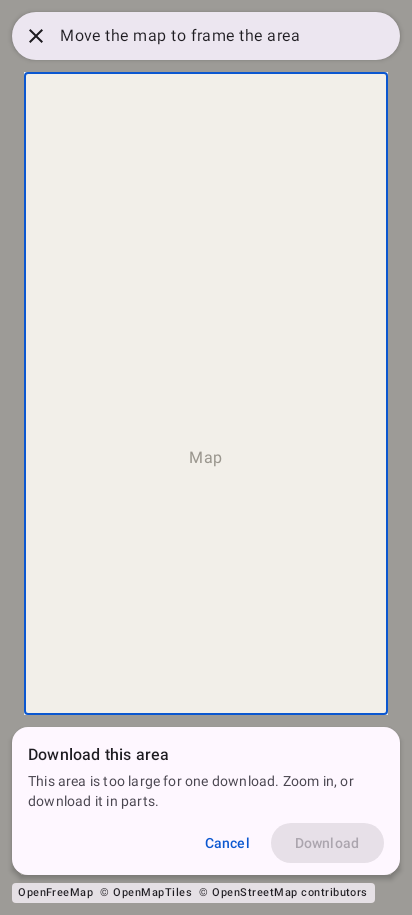
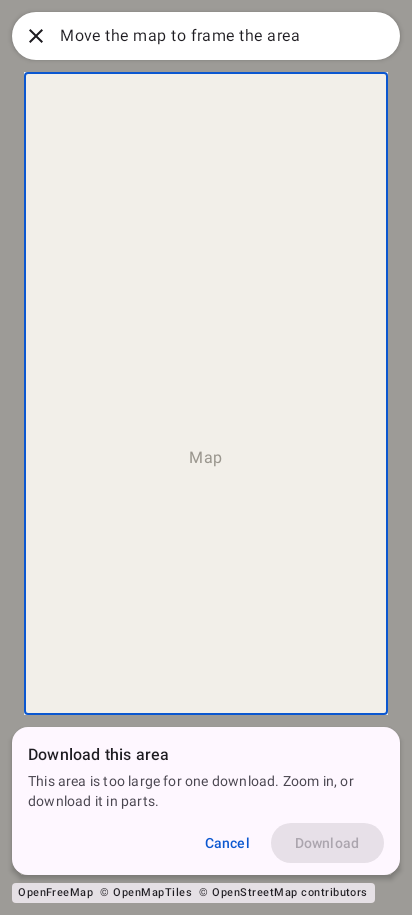
fix(offline): the area picker's bar and card have the map controls' look and edge
The bar takes the search bar's place, so it takes its container (white in
light, was surfaceContainerHigh) and, with the card, the dark edge: on
VersaTiles Colorful Dark the bar was 1.04:1. The contrast test walks only
past each container's fill, so a light fill no longer passes for an edge.

Changed region(s): [[0.0291, 0.0, 0.9903, 0.0918]]

diff --git a/androidApp/src/test/kotlin/to/pubky/maps/android/MapSurfacesContrastTest.kt b/androidApp/src/test/kotlin/to/pubky/maps/android/MapSurfacesContrastTest.kt
@@ -31,6 +31,7 @@ import org.robolectric.annotation.GraphicsMode
 import to.pubky.maps.config.ServerDefaults
 import to.pubky.maps.links.GeoPoint
 import to.pubky.maps.links.LinkProvider
+import to.pubky.maps.map.AreaPickerUi
 import to.pubky.maps.map.MapScreen
 import to.pubky.maps.map.MapSearch
 import to.pubky.maps.place.PlaceCard
@@ -42,12 +43,13 @@ import to.pubky.maps.status.ServicePart
 import to.pubky.maps.ui.PubkyMapsTheme
 
 /**
- * In dark mode every control, notice and card over the map has an edge that stands out from the land
- * of each default dark style: a shadow does not show on a dark map, and those lands range from nearly
- * black to dark grey, so the edge must carry the boundary. From a point in each container's padding,
- * where no icon or text is, the pixels are read outward across its edge, and the most distinct one must
- * reach 1.5:1 against the land (the near-black container of the search bar and buttons gave 1.01:1 on
- * OpenFreeMap Dark, M3's High tone 1.04:1 on VersaTiles Colorful Dark). Runs once per default dark style.
+ * In dark mode every control, notice and card over the map, and the area picker's bar and card, has
+ * an edge that stands out from the land of each default dark style: a shadow does not show on a dark
+ * map, and those lands range from nearly black to dark grey, so the edge must carry the boundary. From
+ * a point in each container's padding, where no icon or text is, the pixels are read outward across
+ * its edge, and the most distinct one that is not the container's fill must reach 1.5:1 against the
+ * land (without an edge: 1.36:1 on OpenFreeMap Dark, 1.04:1 on VersaTiles Colorful Dark for the
+ * search bar and buttons). Runs once per default dark style.
  * Native graphics, so the pixels are the ones a phone draws.
  */
 @RunWith(ParameterizedRobolectricTestRunner::class)
@@ -72,7 +74,10 @@ class MapSurfacesContrastTest(
             source = PlaceSource.LinkText,
         )
 
-    private fun showDark(placeCard: (@Composable () -> Unit)? = null) {
+    private fun showDark(
+        placeCard: (@Composable () -> Unit)? = null,
+        areaPicker: AreaPickerUi? = null,
+    ) {
         compose.setContent {
             density = LocalDensity.current
             PubkyMapsTheme(darkTheme = true) {
@@ -88,6 +93,7 @@ class MapSurfacesContrastTest(
                     onOpenSettings = {},
                     missing = setOf(ServicePart.Homeserver),
                     placeCard = placeCard,
+                    areaPicker = areaPicker,
                     search = MapSearch(SearchState(), recents = emptyList(), userLocation = null, actions = SearchActions()),
                 ) { Box(Modifier.fillMaxSize().background(land)) }
             }
@@ -102,7 +108,9 @@ class MapSurfacesContrastTest(
 
     /**
      * The colour most distinct from the land among the pixels from ([x], [y]) [span] outward, one pixel
-     * a step ([dx], [dy]): across the container's padding, its edge and the map just outside.
+     * a step ([dx], [dy]): across the container's padding, its edge and the map just outside. Pixels
+     * of the container's own fill (as at the start) do not count, so a fill that stands out by itself
+     * does not pass for an edge; with nothing past the fill but the map, the land itself.
      */
     private fun PixelMap.edgeFrom(
         x: Dp,
@@ -114,11 +122,13 @@ class MapSurfacesContrastTest(
         with(density) {
             val x0 = x.roundToPx()
             val y0 = y.roundToPx()
+            val fill = this@edgeFrom[x0, y0]
             (0..span.roundToPx())
                 .map { i -> Pair(x0 + i * dx, y0 + i * dy) }
                 .filter { (px, py) -> px in 0 until width && py in 0 until height }
                 .map { (px, py) -> this@edgeFrom[px, py] }
-                .maxBy { contrast(it, land) }
+                .filter { contrast(it, fill) >= 1.1f }
+                .maxByOrNull { contrast(it, land) } ?: land
         }
 
     private fun contrast(
@@ -154,9 +164,9 @@ class MapSurfacesContrastTest(
                 "search bar" to screen.edgeFrom(hint.right + 16.dp, hint.middleY(), 0, -1, 40.dp),
                 // The notice from its 16 dp start padding, leftward across its edge.
                 "'could not load' notice" to screen.edgeFrom(notice.left - 8.dp, notice.middleY(), -1, 0, 16.dp),
-                // The banner from just above its text, up across its 8 dp top padding and edge (its
-                // icon is before the text).
-                "missing-service banner" to screen.edgeFrom(banner.left, banner.top - 2.dp, 0, -1, 12.dp),
+                // The banner from just above its text, up across its 8 dp top padding and edge to 2 dp
+                // above it (its icon is before the text; the notice is 8 dp above).
+                "missing-service banner" to screen.edgeFrom(banner.left, banner.top - 2.dp, 0, -1, 8.dp),
             )
         edges.forEach { (what, colour) -> assertStandsOut(what, colour) }
         // As in light, a notice is a step apart from the controls above it, here lighter.
@@ -174,11 +184,26 @@ class MapSurfacesContrastTest(
     @Test
     @Config(qualifiers = "w412dp-h915dp-night")
     fun thePlaceCardOverTheDarkMapHasAnEdgeThatStandsOutFromItsLand() {
-        showDark { PlaceCard(place = place, provider = LinkProvider.Google, onShare = {}, onClose = {}) }
+        showDark(placeCard = { PlaceCard(place = place, provider = LinkProvider.Google, onShare = {}, onClose = {}) })
         val screen = compose.onRoot().captureToImage().toPixelMap()
         val title = compose.onNodeWithText("Zürich Hauptbahnhof", useUnmergedTree = true).getUnclippedBoundsInRoot()
         // From the card's 16 dp start padding, on the name's line, leftward across its edge.
         assertStandsOut("place card", screen.edgeFrom(title.left - 8.dp, title.middleY(), -1, 0, 16.dp))
+    }
+
+    @Test
+    @Config(qualifiers = "w412dp-h915dp-night")
+    fun theAreaPickersBarAndCardOverTheDarkMapHaveAnEdgeThatStandsOutFromItsLand() {
+        showDark(areaPicker = AreaPickerUi(fits = true))
+        val screen = compose.onRoot().captureToImage().toPixelMap()
+        val cancel = compose.onNodeWithContentDescription("Cancel").getUnclippedBoundsInRoot()
+        val title = compose.onNodeWithText("Download this area", useUnmergedTree = true).getUnclippedBoundsInRoot()
+        // The map around them is shaded, darker than its land, so the land is the stricter measure.
+        // The bar from 4 dp inside its Cancel button (the icon is 24 dp in its middle), leftward
+        // across the bar's start edge.
+        assertStandsOut("area picker's bar", screen.edgeFrom(cancel.left + 4.dp, cancel.middleY(), -1, 0, 8.dp))
+        // The card from its 16 dp start padding, on the title's line, leftward across its edge.
+        assertStandsOut("area picker's card", screen.edgeFrom(title.left - 8.dp, title.middleY(), -1, 0, 16.dp))
     }
 
     private fun assertStandsOut(

diff --git a/shared/src/commonMain/kotlin/to/pubky/maps/ui/Theme.kt b/shared/src/commonMain/kotlin/to/pubky/maps/ui/Theme.kt
@@ -31,39 +31,41 @@ private val DarkColors =
     )
 
 /**
- * The containers of what floats over the map: [control] for the search bar and the round buttons,
- * [notice] for the lines saying what is missing (a step apart from the controls above them), [card]
- * for the card of a place opened from a link or search, and [edge] around each of them.
+ * The containers of what floats over the map: [control] for the search bar (and the area picker's bar
+ * in its place) and the round buttons, [notice] for the lines saying what is missing (a step apart
+ * from the controls above them), [card] for the card of a place opened from a link or search, and
+ * [edge] around each of them and the area picker's card.
  *
  * Light, a white control and its shadow stand out from the light map, so there is no edge. Dark, a
  * shadow does not show, and the default dark styles' land ranges from nearly black (OpenFreeMap
- * Dark rgb(12,12,12)) to dark grey (VersaTiles Colorful Dark rgb(40,39,37)), and the user can add
- * any style: a container tone matched to one land fades on another (the darkest container, #0F0D13,
- * gave 1.01:1 on the first; M3's High, #2B2930, 1.04:1 on the second). So dark draws a 1 dp
- * outlineVariant edge, as Material 3's outlined containers do: 2.09:1 and 1.60:1 on those lands.
- * The tones are lighter than light's: controls and card surfaceContainerHigh, notices a step above
- * them (surfaceContainerHighest), as in light.
+ * Dark rgb(12,12,12)) to dark grey (VersaTiles Colorful Dark rgb(40,39,37)): a container tone
+ * matched to one land fades on the other (the darkest container, #0F0D13, gave 1.01:1 on the first;
+ * M3's High, #2B2930, 1.04:1 on the second). So dark draws a 1 dp outlineVariant edge, as Material
+ * 3's outlined containers do: 2.09:1 and 1.60:1 on those lands. Over VersaTiles' woods, grass and
+ * buildings it is fainter (1.3-1.5:1); the outline role (3.8:1 and more) would frame every control
+ * in a bright line. Dark takes higher container roles than light: controls and card
+ * surfaceContainerHigh, notices a step above them (surfaceContainerHighest), as in light.
  */
 @Immutable
-data class MapSurfaceColors(
+data class MapSurfaceStyle(
     val control: Color,
     val notice: Color,
     val card: Color,
     val edge: BorderStroke?,
 )
 
-private fun mapSurfaceColors(
+private fun mapSurfaceStyle(
     scheme: ColorScheme,
     dark: Boolean,
 ) = if (dark) {
-    MapSurfaceColors(
+    MapSurfaceStyle(
         control = scheme.surfaceContainerHigh,
         notice = scheme.surfaceContainerHighest,
         card = scheme.surfaceContainerHigh,
         edge = BorderStroke(1.dp, scheme.outlineVariant),
     )
 } else {
-    MapSurfaceColors(
+    MapSurfaceStyle(
         control = scheme.surfaceContainerLowest,
         notice = scheme.surfaceContainerHigh,
         card = scheme.surfaceContainerLow,
@@ -71,13 +73,13 @@ private fun mapSurfaceColors(
     )
 }
 
-private val LocalMapSurfaceColors = staticCompositionLocalOf { mapSurfaceColors(LightColors, dark = false) }
+private val LocalMapSurfaceStyle = staticCompositionLocalOf { mapSurfaceStyle(LightColors, dark = false) }
 
 /** The containers of the controls and notices over the map, for the current theme. */
-val MapSurfaces: MapSurfaceColors
+val MapSurfaces: MapSurfaceStyle
     @Composable
     @ReadOnlyComposable
-    get() = LocalMapSurfaceColors.current
+    get() = LocalMapSurfaceStyle.current
 
 /** The app's Material 3 theme; light or dark follows the system. */
 @Composable
@@ -86,7 +88,7 @@ fun PubkyMapsTheme(
     content: @Composable () -> Unit,
 ) {
     val scheme = if (darkTheme) DarkColors else LightColors
-    CompositionLocalProvider(LocalMapSurfaceColors provides mapSurfaceColors(scheme, darkTheme)) {
+    CompositionLocalProvider(LocalMapSurfaceStyle provides mapSurfaceStyle(scheme, darkTheme)) {
         MaterialTheme(colorScheme = scheme, content = content)
     }
 }

diff --git a/shared/src/commonMain/kotlin/to/pubky/maps/map/AreaPicker.kt b/shared/src/commonMain/kotlin/to/pubky/maps/map/AreaPicker.kt
@@ -43,6 +43,7 @@ import androidx.compose.ui.unit.DpRect
 import androidx.compose.ui.unit.dp
 import to.pubky.maps.config.AttributionLink
 import to.pubky.maps.ui.AppIcons
+import to.pubky.maps.ui.MapSurfaces
 
 /** The area picker over the map: plain state, so screenshots need no map. */
 data class AreaPickerUi(
@@ -128,11 +129,12 @@ private fun AreaPickerControls(
         horizontalAlignment = Alignment.CenterHorizontally,
     ) {
         // As tall as the search bar it replaces, and taller when a large font wraps the instruction, so
-        // no line is cut; the frame below takes what is left.
+        // no line is cut; the frame below takes what is left. It looks like that bar.
         Surface(
             modifier = Modifier.widthIn(max = 560.dp).fillMaxWidth().heightIn(min = TopControlSize),
             shape = RoundedCornerShape(TopControlSize / 2),
-            color = MaterialTheme.colorScheme.surfaceContainerHigh,
+            color = MapSurfaces.control,
+            border = MapSurfaces.edge,
             shadowElevation = 3.dp,
         ) {
             Row(verticalAlignment = Alignment.CenterVertically) {
@@ -156,6 +158,7 @@ private fun AreaPickerControls(
             modifier = Modifier.widthIn(max = 560.dp).fillMaxWidth(),
             shape = RoundedCornerShape(16.dp),
             color = MaterialTheme.colorScheme.surface,
+            border = MapSurfaces.edge,
             shadowElevation = 3.dp,
         ) {
             Column(Modifier.padding(start = 16.dp, end = 16.dp, top = 16.dp, bottom = 8.dp)) {
